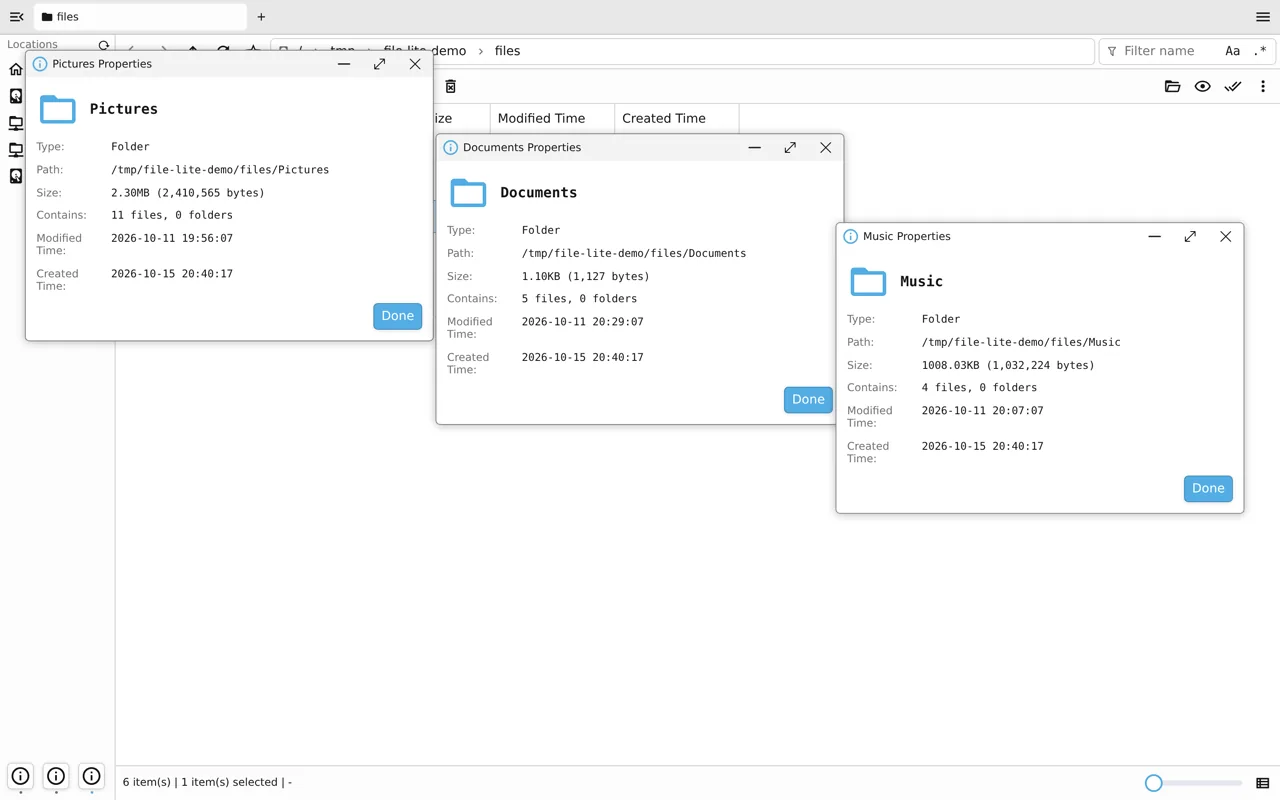
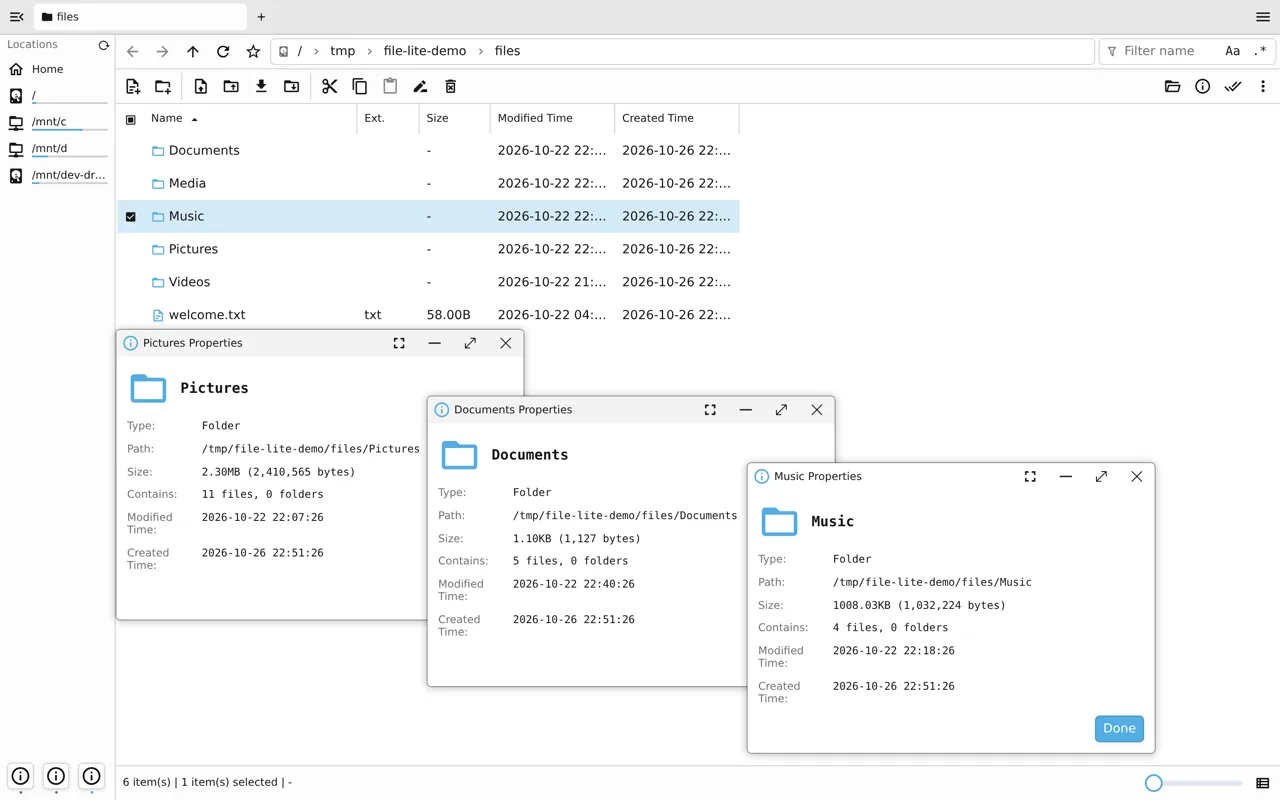
docs: lay the README screenshots out as full-width tiles
Drop the screenshot/feature table: each shot now spans the text column
with its description above it, in both READMEs.

Recapture the properties shot with the windows cascaded below the file
list so the UI behind stays visible, and rename its caption to
Multiple windows.

diff --git a/README.md b/README.md
@@ -12,17 +12,39 @@
 
 ![File Lite](docs/screenshots/00-main.webp)
 
+## Screenshots
 
-| Screenshot                                                                  | Feature                                                                                                                                                                          |
-| --------------------------------------------------------------------------- | -------------------------------------------------------------------------------------------------------------------------------------------------------------------------------- |
-| ![Tabs and split view](docs/screenshots/01-tabs-split.webp)                 | **Tabs & split view**: Chrome-like tabs with a Total Commander-style multi-pane view, horizontal and vertical, where files can be dragged straight from one pane into the other. |
-| ![Transfers and background tasks](docs/screenshots/02-transfers-tasks.webp) | **Transfers & background tasks**: Uploads and downloads, while copy, move and delete run on the server — with progress and cancel, gathered in the top-right panel.              |
-| ![Endless Gallery](docs/screenshots/03-gallery.webp)                        | **Endless Gallery**: A short-video-style vertical feed of the images, videos and audio in the current folder, with touch, wheel and keyboard navigation, and a collect list.     |
-| ![Music player](docs/screenshots/04-music-player.webp)                      | **Music player**: Playlist, embedded cover art and synced lyrics.                                                                                                                |
-| ![Video player](docs/screenshots/05-video-player.webp)                      | **Video player**: ArtPlayer or the native `<video>` element, switchable from the app menu, remembering the last opened file.                                                     |
-| ![Previews and thumbnails](docs/screenshots/06-thumbnails.webp)             | **Previews & thumbnails**: Image previews, video first frames (ffmpeg) and audio cover art are all generated by the server and cached in the browser.                            |
-| ![Text editor](docs/screenshots/07-text-editor.webp)                        | **Text editor**: Edit and save text files right in the browser.                                                                                                                  |
-| ![Properties window](docs/screenshots/08-properties.webp)                   | **Windows-style properties**: Built-in apps support multi-window interaction and can be minimised.                                                                               |
+**Tabs & split view**: Chrome-like tabs with a Total Commander-style multi-pane view, horizontal and vertical, where files can be dragged straight from one pane into the other.
+
+![Tabs and split view](docs/screenshots/01-tabs-split.webp)
+
+**Transfers & background tasks**: Uploads and downloads, while copy, move and delete run on the server — with progress and cancel, gathered in the top-right panel.
+
+![Transfers and background tasks](docs/screenshots/02-transfers-tasks.webp)
+
+**Endless Gallery**: A short-video-style vertical feed of the images, videos and audio in the current folder, with touch, wheel and keyboard navigation, and a collect list.
+
+![Endless Gallery](docs/screenshots/03-gallery.webp)
+
+**Music player**: Playlist, embedded cover art and synced lyrics.
+
+![Music player](docs/screenshots/04-music-player.webp)
+
+**Video player**: ArtPlayer or the native `<video>` element, switchable from the app menu, remembering the last opened file.
+
+![Video player](docs/screenshots/05-video-player.webp)
+
+**Previews & thumbnails**: Image previews, video first frames (ffmpeg) and audio cover art are all generated by the server and cached in the browser.
+
+![Previews and thumbnails](docs/screenshots/06-thumbnails.webp)
+
+**Text editor**: Edit and save text files right in the browser.
+
+![Text editor](docs/screenshots/07-text-editor.webp)
+
+**Multiple windows**: Built-in apps can open several windows at once, and those windows can be stacked or minimised.
+
+![Multiple windows](docs/screenshots/08-properties.webp)
 
 
 - **Backend**: a single Go (Echo) server, shipped as one static binary with the UI embedded

diff --git a/docs/zh-CN/README.md b/docs/zh-CN/README.md
@@ -12,16 +12,39 @@
 
 ![File Lite](../screenshots/00-main.webp)
 
-| 截图 | 功能 |
-| :-: | :-- |
-| ![标签页与分栏](../screenshots/01-tabs-split.webp) | **标签页与分栏**：类似 Chrome 的标签页，加上 Total Commander 式的多栏视图，横竖都可以，文件能从一个栏直接拖到另一个栏。 |
-| ![传输与后台任务](../screenshots/02-transfers-tasks.webp) | **传输与后台任务**：上传和下载；复制、移动、删除在服务端进行，带进度和取消，集中在右上角面板。 |
-| ![Endless Gallery](../screenshots/03-gallery.webp) | **Endless Gallery**：把当前文件夹里的图片、视频和音频排成短视频式的竖向信息流，支持触摸、滚轮和键盘，并有收藏列表。 |
-| ![音乐播放器](../screenshots/04-music-player.webp) | **音乐播放器**：播放列表、内嵌封面和同步歌词。 |
-| ![视频播放器](../screenshots/05-video-player.webp) | **视频播放器**：ArtPlayer 或原生 `<video>`，可在应用菜单里切换，并记住上次打开的文件。 |
-| ![预览与缩略图](../screenshots/06-thumbnails.webp) | **预览与缩略图**：图片预览、视频首帧（ffmpeg）和音频封面都由服务端生成，并缓存在浏览器里。 |
-| ![文本编辑器](../screenshots/07-text-editor.webp) | **文本编辑器**：在浏览器里直接编辑并保存文本文件。 |
-| ![属性窗口](../screenshots/08-properties.webp) | **Windows 风格的属性**：内置应用支持多窗口，也可以最小化。 |
+## 截图
+
+**标签页与分栏**：类似 Chrome 的标签页，加上 Total Commander 式的多栏视图，横竖都可以，文件能从一个栏直接拖到另一个栏。
+
+![标签页与分栏](../screenshots/01-tabs-split.webp)
+
+**传输与后台任务**：上传和下载；复制、移动、删除在服务端进行，带进度和取消，集中在右上角面板。
+
+![传输与后台任务](../screenshots/02-transfers-tasks.webp)
+
+**Endless Gallery**：把当前文件夹里的图片、视频和音频排成短视频式的竖向信息流，支持触摸、滚轮和键盘，并有收藏列表。
+
+![Endless Gallery](../screenshots/03-gallery.webp)
+
+**音乐播放器**：播放列表、内嵌封面和同步歌词。
+
+![音乐播放器](../screenshots/04-music-player.webp)
+
+**视频播放器**：ArtPlayer 或原生 `<video>`，可在应用菜单里切换，并记住上次打开的文件。
+
+![视频播放器](../screenshots/05-video-player.webp)
+
+**预览与缩略图**：图片预览、视频首帧（ffmpeg）和音频封面都由服务端生成，并缓存在浏览器里。
+
+![预览与缩略图](../screenshots/06-thumbnails.webp)
+
+**文本编辑器**：在浏览器里直接编辑并保存文本文件。
+
+![文本编辑器](../screenshots/07-text-editor.webp)
+
+**多窗口**：内置应用可以同时打开多个窗口，能叠放，也能最小化。
+
+![多窗口](../screenshots/08-properties.webp)
 
 - **后端**：单个 Go (Echo) 服务，界面内嵌，打成一个静态二进制
 - **体积**：大约 **10MB**

diff --git a/e2e/README.md b/e2e/README.md
@@ -145,13 +145,13 @@ upload/               a.txt（与服务端同名）、fresh.txt
 `.gitignore`，这样新克隆出来的仓库里**有一个空的 `screenshots/`**，
 测试直接往里写即可，也不会留下未跟踪的空目录。
 
-> 与 README 功能表格用的截图要分清：那些是人工挑选的展示图，由
+> 与 README 展示用的截图要分清：那些是人工挑选的展示图，由
 > `bun run docs:screenshots` 生成到 `../docs/screenshots/`，**仍然提交**（只提交
 > `.webp`；同目录的 `.png` 是压缩前的中间产物，见下）。
 
 ## README 截图
 
-README 功能表格里的截图由另一个脚本产出，输出到 `../docs/screenshots/`：
+README 里的功能截图由另一个脚本产出，输出到 `../docs/screenshots/`：
 
 ```sh
 cd e2e
